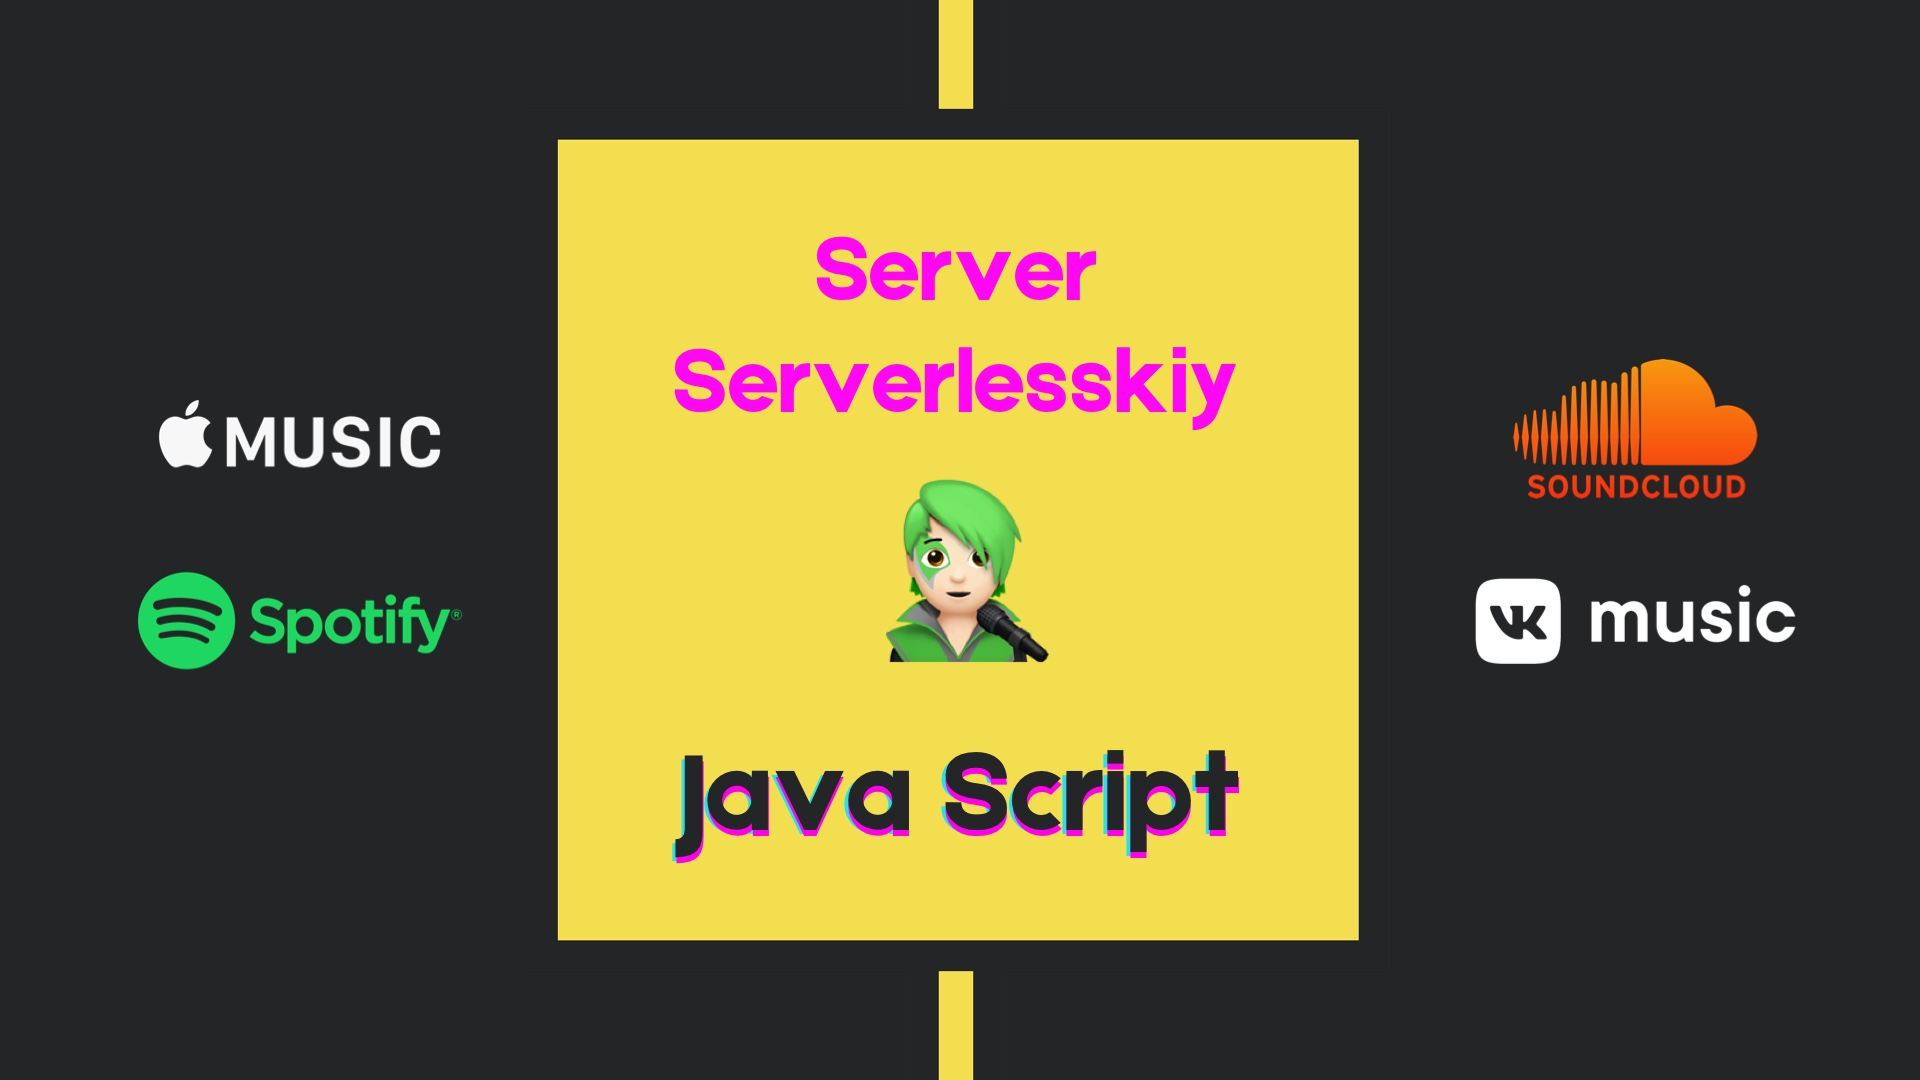
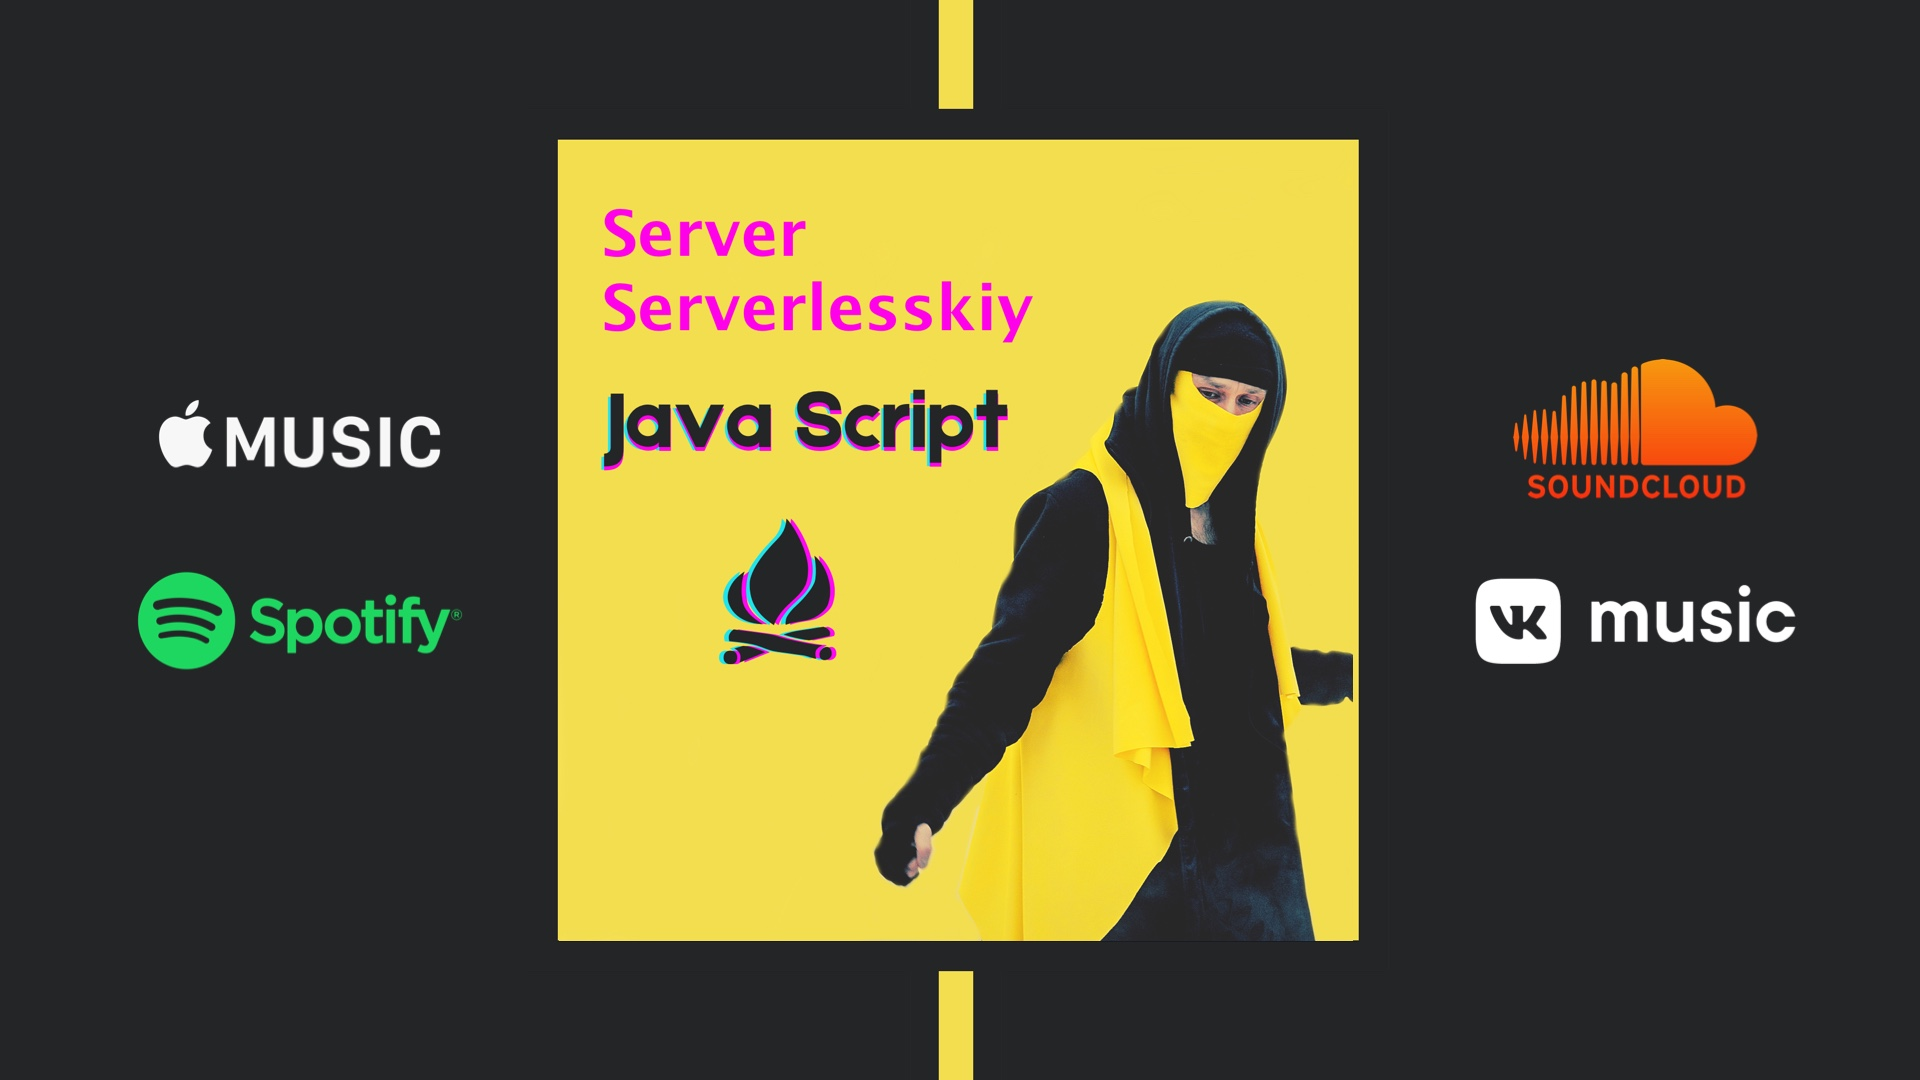
teachers

Changed region(s): [[0.3125, 0.1833, 0.7188, 0.8861]]

diff --git a/docs/javascript00.md b/docs/javascript00.md
@@ -110,13 +110,27 @@ We begin offline classes with the assembly of the Rubik's cube and those who col
 
 💛 First class - Java Script, teacher Fiona Miller.
 
+![Java Script](/img/teachers/FionaMiller.jpg)
+
 💚 Second class - React Native, development and layout of the system of atomic components in mobile applications iOS, Android, as well as AR / VR systems in augmented and virtual reality with a library from Facebook. Teacher Grace Willie.
+
+![Grace Willie](/img/teachers/GraceWillie.jpg)
 
 💙 Third class - TypeScript, atomic component system typing, teacher Maya Lakshmi.
 
-💜 Fourth class - AWS Amplify, serverless computing on AWS Amplify functions. Serverlesskiy teacher.
+![Maya Lakshmi](/img/teachers/MayaLakshmi.jpg)
+
+💜 Fourth class - AWS Amplify, serverless computing on AWS Amplify functions. Server Serverlesskiy teacher.
+
+![Server Serverlesskiy](/img/teachers/ServerServerlesskiy.jpg)
 
 🤍 Optional Video Blogger Course - Piloting training avatars for our training video courses, hosts of AWS Sumerian technology. Preston Wild teacher.
+
+![Preston Wild](/img/teachers/PrestonWild.jpg)
+
+💟 Preparatory class in English. Teacher Cris Brown.
+
+![Preston Wild](/img/teachers/CrisBrown.jpg)
 
 ## Course author
 
@@ -125,12 +139,6 @@ The author of the Java Script course - [Server Serverlesskiy](https://twitter.co
 ## Reviews
 
 [![Tvit](/img/javascript/twit.png)](https://twitter.com/dabit3/status/1339622771001843716)
-
-### Transfer:
-
-This is a completely different level of AWS Community Builder music video 🔥 😅
-
-This is a mobile development course on the React Native / Type Script / AWS Amplify Stack and for AWS Certification. Worth checking out!
 
 ## Learning process
 

diff --git a/i18n/ru/docusaurus-plugin-content-docs/current/javascript00.md b/i18n/ru/docusaurus-plugin-content-docs/current/javascript00.md
@@ -110,13 +110,27 @@ TypeScript - язык программирования, представленн
 
 💛 Первый класс - Java Script, учитель Fiona Miller.
 
+![Java Script](/img/teachers/FionaMiller.jpg)
+
 💚 Второй класс - React Native, разработка и верстка системы атомарных компонентов в мобильных приложениях iOS, Android, а также в системах AR/VR дополненной и виртуальной реальностью с библиотекой от Facebook. Учитель Grace Willie.
+
+![Grace Willie](/img/teachers/GraceWillie.jpg)
 
 💙 Третий класс - TypeScript, типизация системы атомарных компонентов, учитель Maya Lakshmi.
 
+![Maya Lakshmi](/img/teachers/MayaLakshmi.jpg)
+
 💜 Четвертый класс - AWS Amplify, бессерверные вычисления на функциях AWS Amplify. Учитель Server Serverlesskiy.
 
+![Server Serverlesskiy](/img/teachers/ServerServerlesskiy.jpg)
+
 🤍 Дополнительный курс видео блоггера - пилотирование обучающих аватаров для наших обучающих видео курсов, хостов технологии AWS Sumerian. Учитель Preston Wild.
+
+![Preston Wild](/img/teachers/PrestonWild.jpg)
+
+💟 Подготовительный класс по английскому языку. Учитель Крис Браун.
+
+![Preston Wild](/img/teachers/CrisBrown.jpg)
 
 ## Автор курса
 
